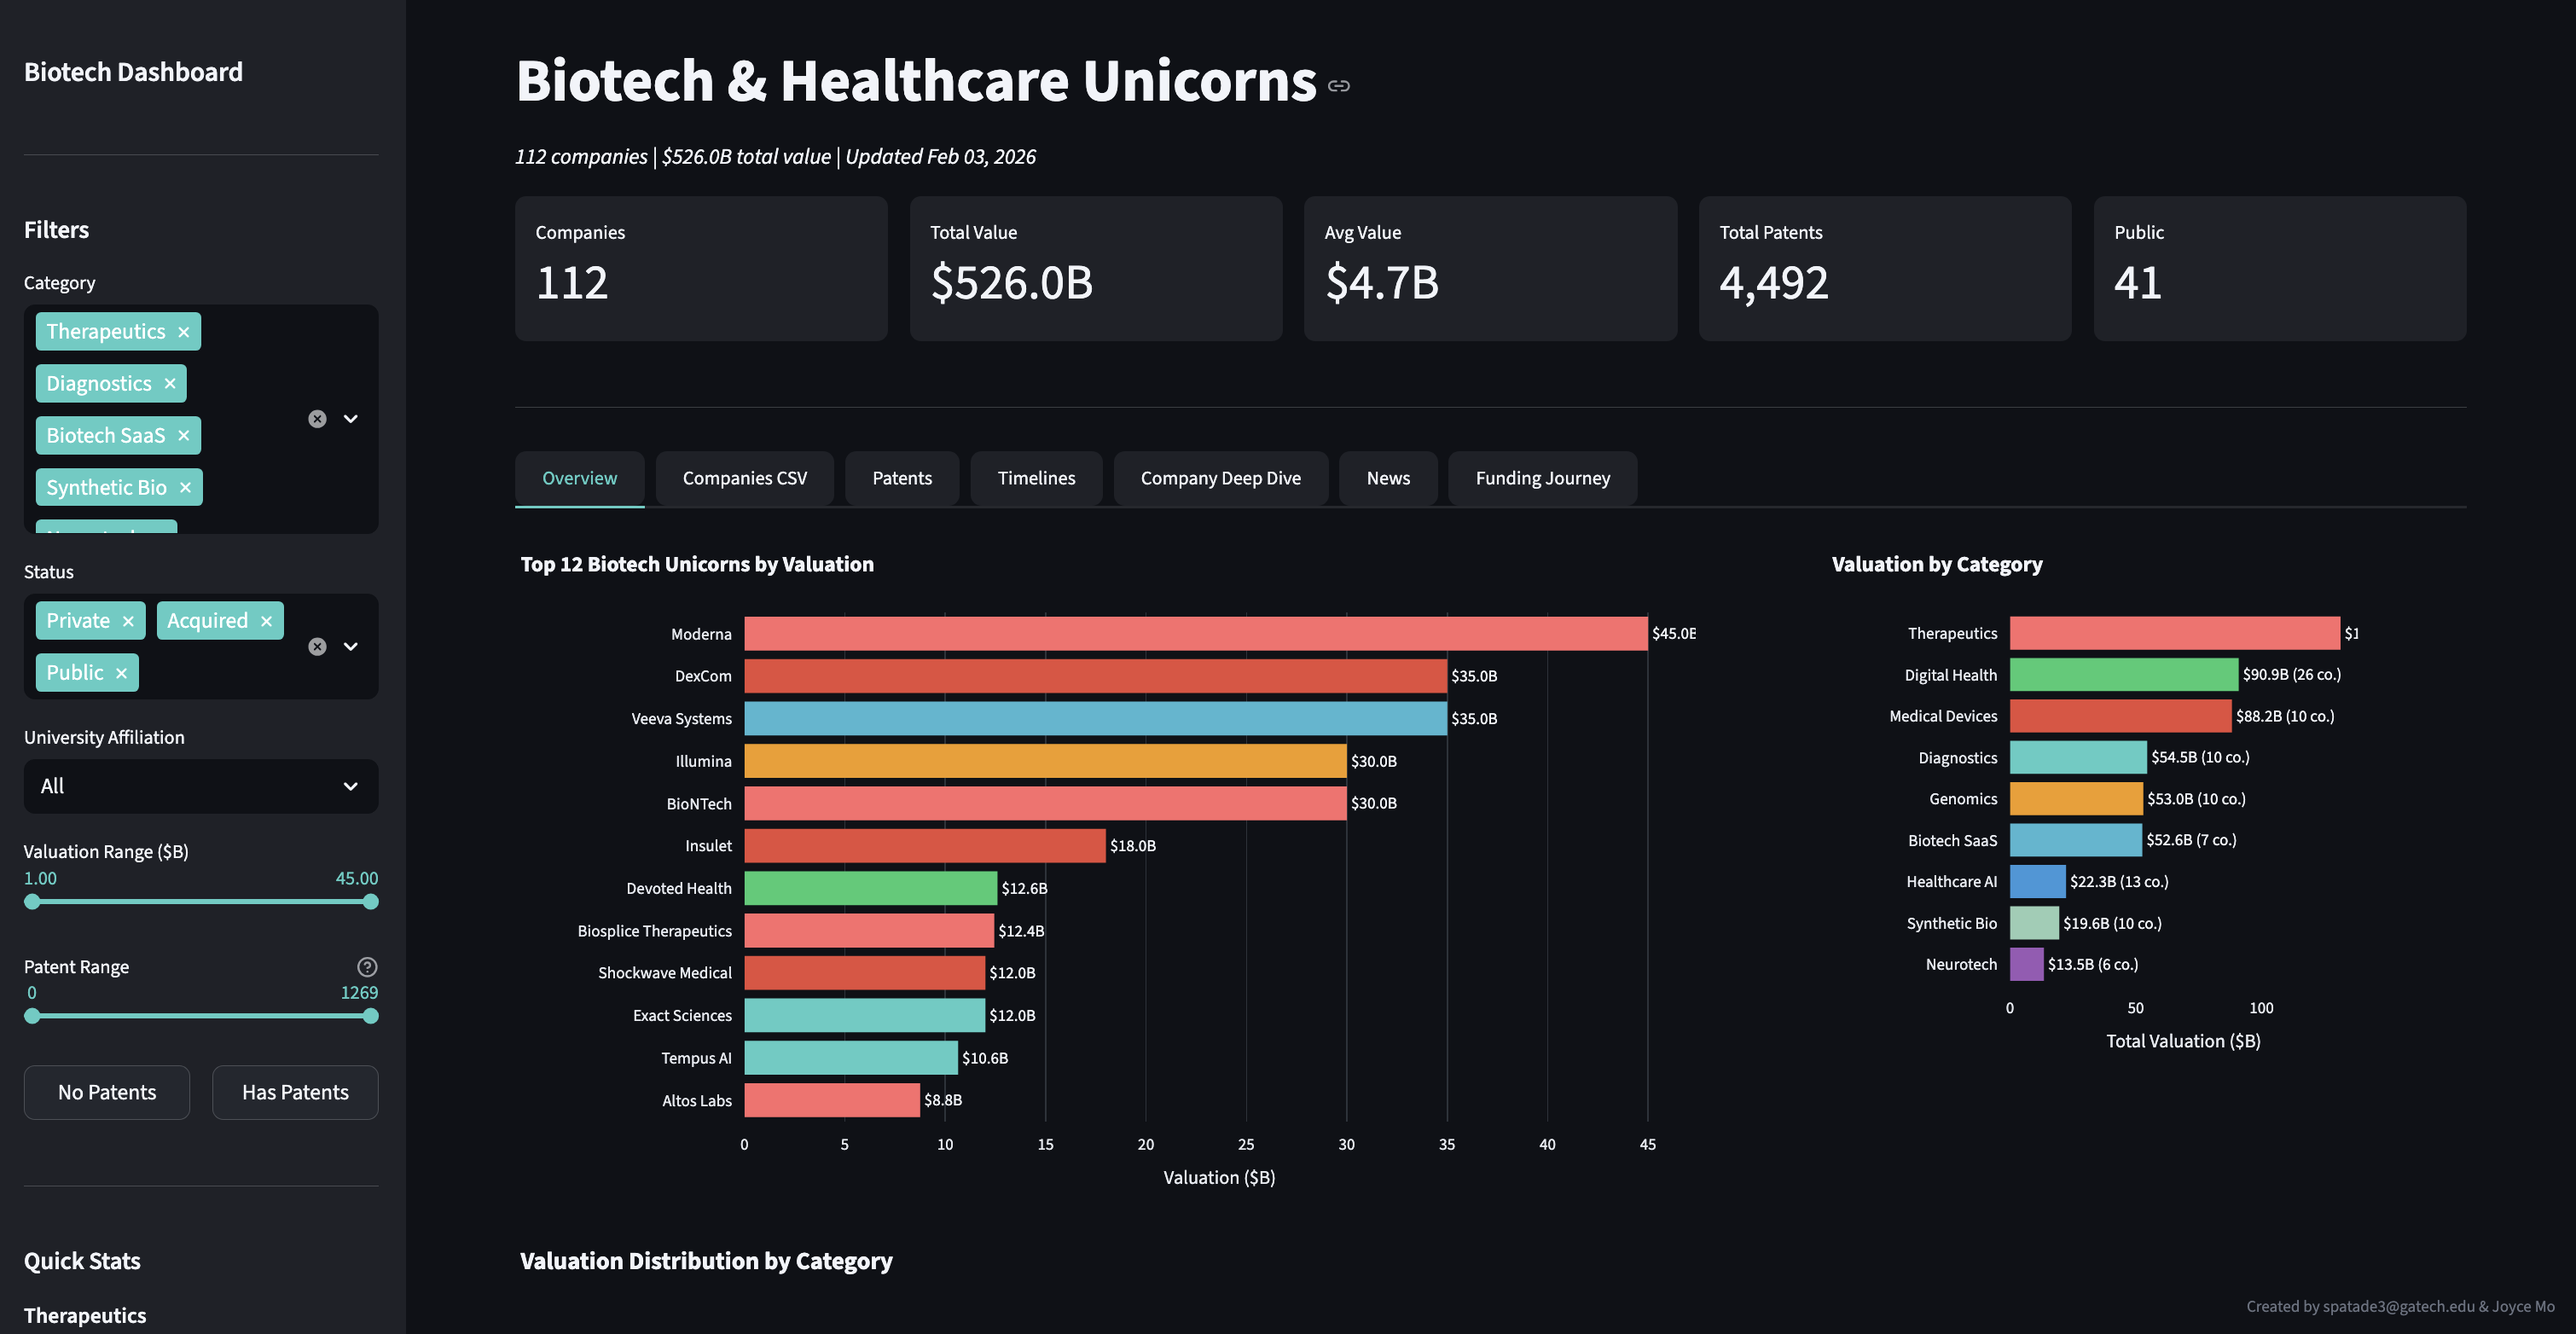
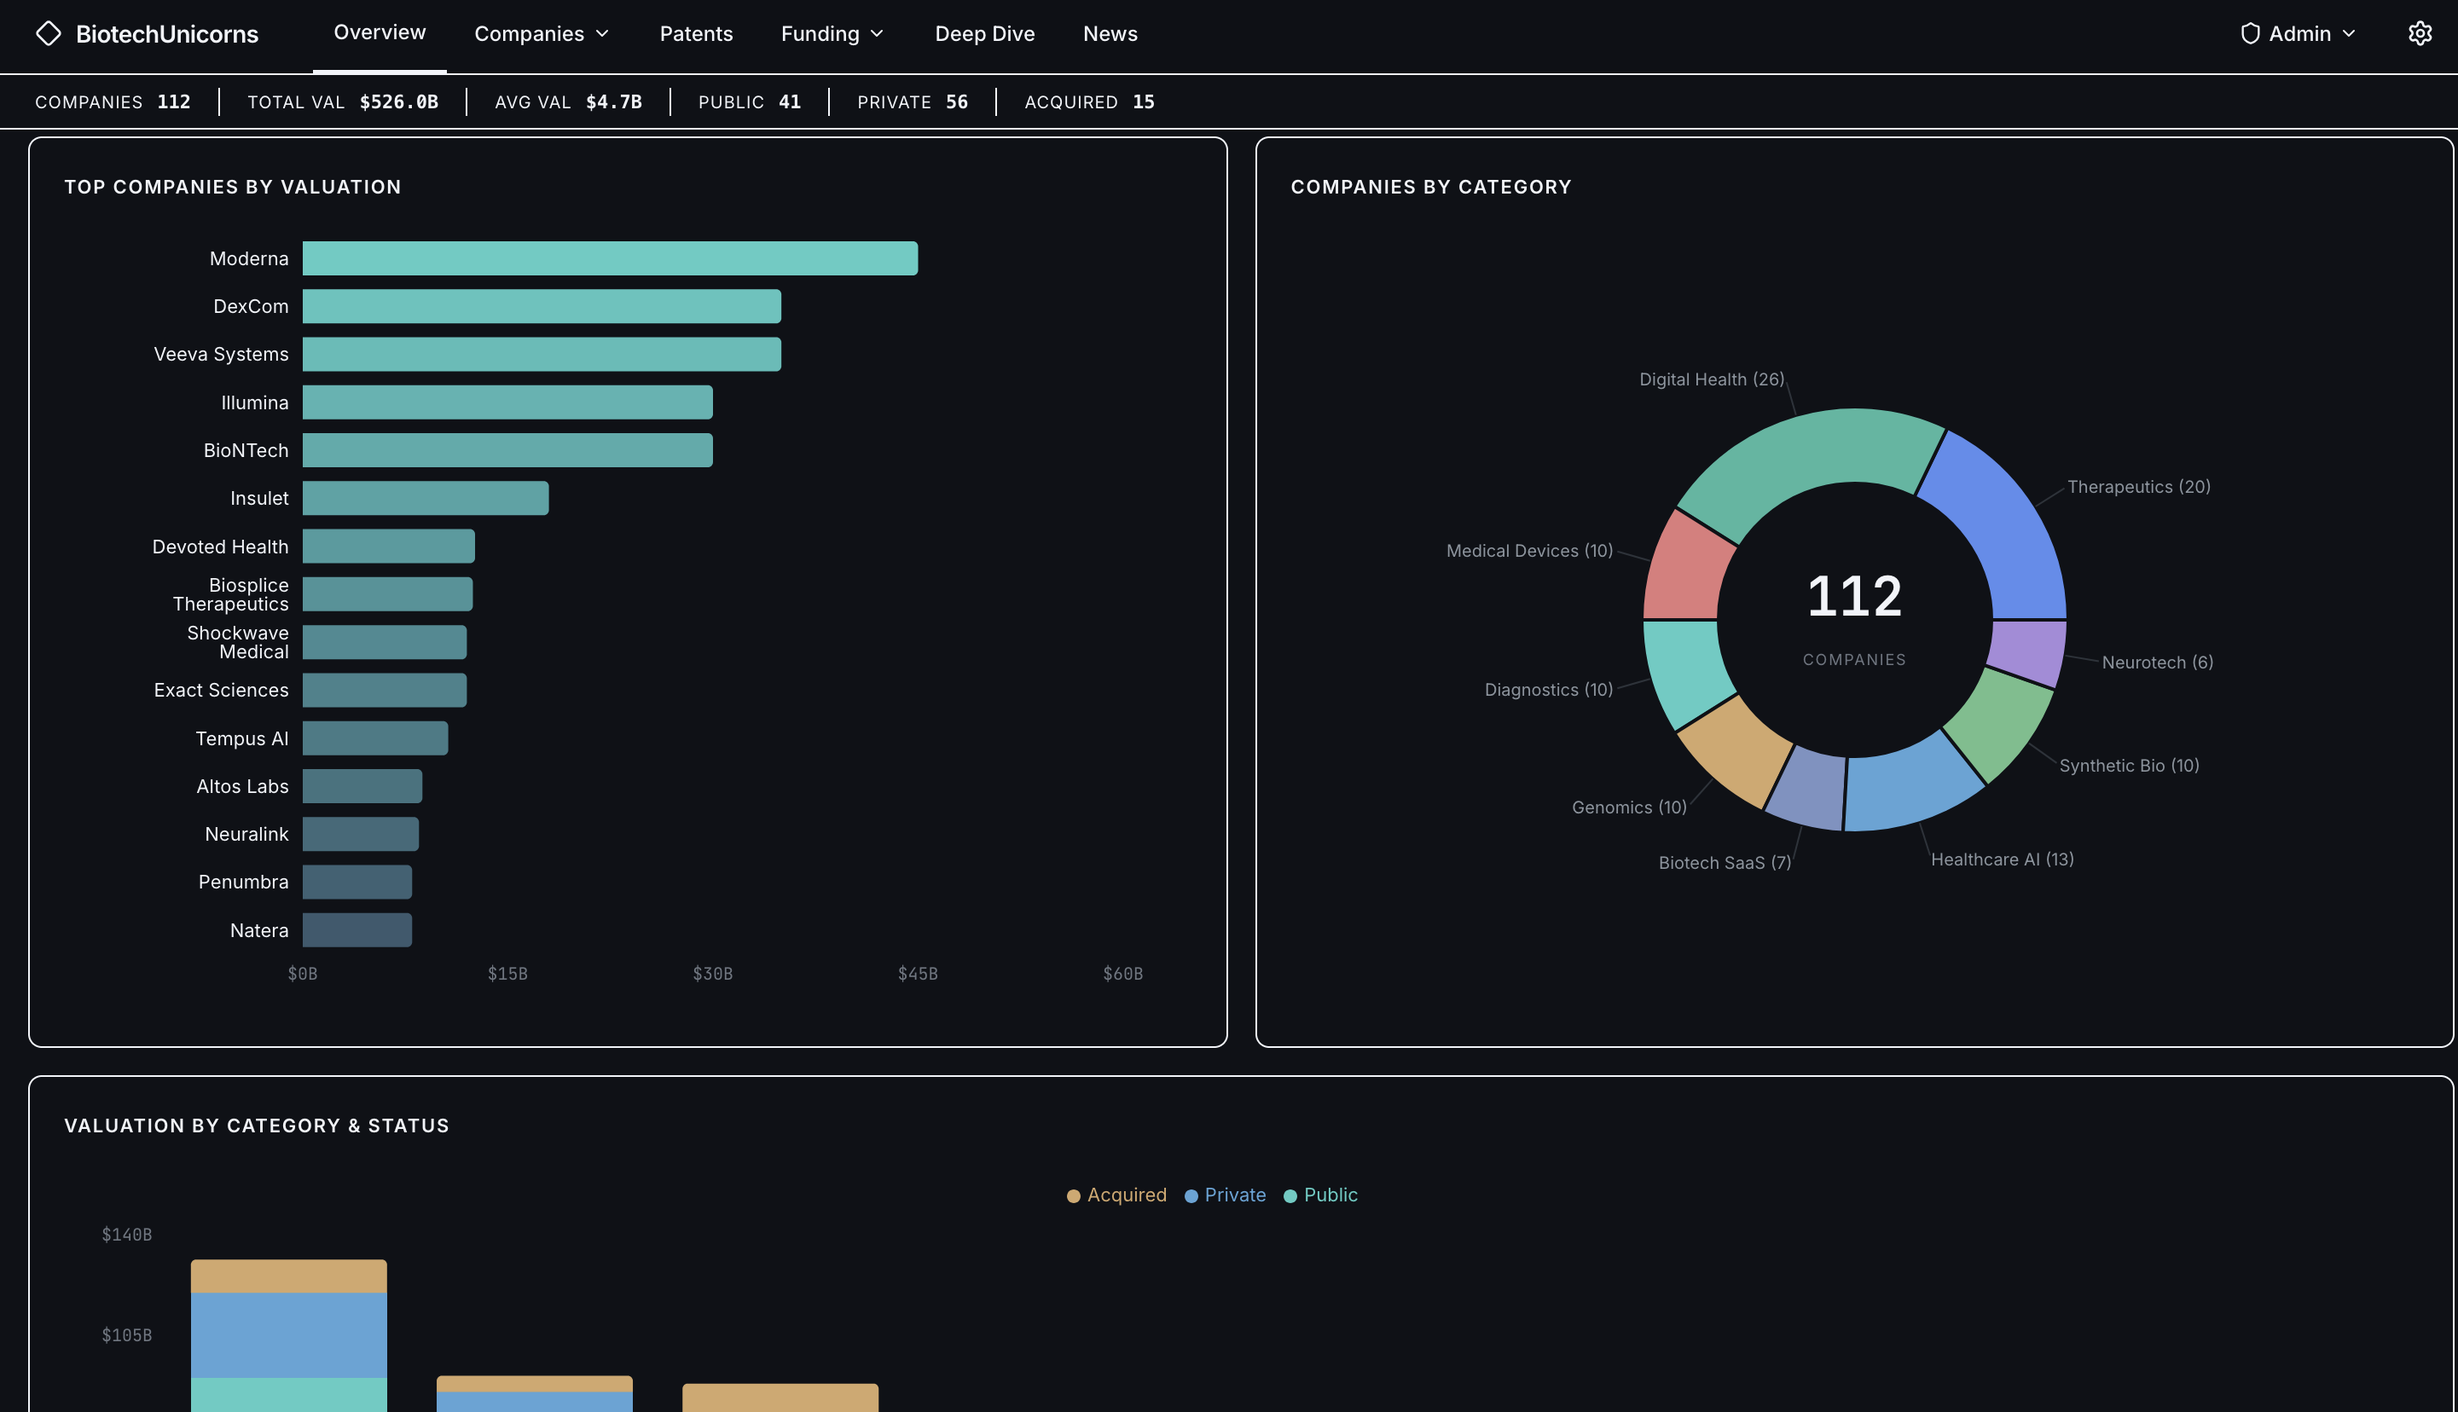
Add NPPG Predictive Analytics and update Biotech Unicorns to v2
- Add NPPG Predictive Analytics as featured project with dashboard screenshot
- Update Biotech Unicorns to Intelligence Platform (v2) for Riceberg Ventures
- Update skills page with Dagster, FastAPI, TypeScript, XGBoost, Google Cloud
- Update tools section to reflect current tech stack

diff --git a/src/app/projects/page.tsx b/src/app/projects/page.tsx
@@ -7,6 +7,14 @@ const basePath = process.env.NODE_ENV === 'production' ? '/portfolio' : '';
 // Featured personal projects with screenshots
 const featuredProjects = [
   {
+    title: 'NPPG Predictive Analytics',
+    description: 'End-to-end data platform for pension plan compliance and risk analytics, managing 14,000+ retirement plans. Features 24 automated Dagster pipelines, 6 ML models for compliance prediction and churn detection, and a real-time executive dashboard with network analysis.',
+    image: `${basePath}/projects/nppg-analytics.png`,
+    tags: ['Python', 'Dagster', 'scikit-learn', 'FastAPI', 'Next.js', 'React', 'SQL Server'],
+    features: ['24 Automated Pipelines', 'ML Compliance Prediction', 'Network Analysis', 'Risk Scoring'],
+    category: 'ai',
+  },
+  {
     title: 'Capitol Trades',
     description: 'Congressional stock trading tracker aggregating STOCK Act disclosures to analyze trading patterns of US lawmakers. Features real-time data scraping, ROI calculations, and party-level comparisons with interactive visualizations.',
     image: `${basePath}/projects/capitol-trades.png`,
@@ -23,12 +31,12 @@ const featuredProjects = [
     category: 'ai',
   },
   {
-    title: 'Biotech & Healthcare Unicorns Dashboard',
-    description: 'Interactive analytics platform tracking 112 biotech unicorn companies worth $526B in total value. Features advanced filtering by category, valuation range, patent portfolio, and company status with deep-dive analysis capabilities.',
+    title: 'Biotech Unicorns Intelligence Platform',
+    description: 'Real-time intelligence platform built for Riceberg Ventures tracking 112 biotech unicorns worth $526B. AI-enriched patent analysis, SEC filing insights, clinical trials, and news sentiment powered by Gemini 2.5 Flash with automated enrichment pipelines on Google Cloud.',
     image: `${basePath}/projects/biotech-v2.png`,
-    tags: ['Python', 'Streamlit', 'Data Visualization', 'BigQuery', 'Pandas'],
-    features: ['Company Deep Dives', 'Patent Analysis', 'Funding Journey Tracking', 'News Aggregation'],
-    category: 'analytics',
+    tags: ['Next.js', 'React', 'Flask', 'BigQuery', 'Gemini AI', 'Google Cloud', 'Recharts'],
+    features: ['AI-Enriched Patent Analysis', 'SEC Filing Insights', 'Clinical Trials Tracking', 'News Sentiment'],
+    category: 'ai',
   },
   {
     title: 'OilSight',

diff --git a/src/app/skills/page.tsx b/src/app/skills/page.tsx
@@ -8,43 +8,45 @@ const skillCategories = [
     skills: [
       { name: 'Python', level: 95 },
       { name: 'SQL', level: 95 },
-      { name: 'R', level: 75 },
-      { name: 'JavaScript', level: 70 },
+      { name: 'TypeScript', level: 80 },
+      { name: 'JavaScript', level: 80 },
     ],
   },
   {
     title: 'Machine Learning',
     skills: [
+      { name: 'Scikit-learn', level: 90 },
       { name: 'TensorFlow', level: 80 },
-      { name: 'Scikit-learn', level: 85 },
-      { name: 'NLP', level: 75 },
+      { name: 'XGBoost', level: 85 },
       { name: 'RAG Systems', level: 80 },
     ],
   },
   {
-    title: 'Visualization',
+    title: 'Data Engineering',
     skills: [
-      { name: 'Power BI', level: 95 },
-      { name: 'Tableau', level: 90 },
-      { name: 'DAX', level: 90 },
-      { name: 'Matplotlib', level: 85 },
+      { name: 'Dagster', level: 90 },
+      { name: 'FastAPI / Flask', level: 85 },
+      { name: 'ETL Pipelines', level: 95 },
+      { name: 'pandas / NumPy', level: 90 },
     ],
   },
   {
-    title: 'Cloud & Data',
+    title: 'Cloud & Databases',
     skills: [
-      { name: 'AWS', level: 80 },
+      { name: 'Google Cloud', level: 85 },
+      { name: 'BigQuery', level: 85 },
       { name: 'SQL Server', level: 90 },
-      { name: 'PostgreSQL', level: 85 },
-      { name: 'BigQuery', level: 75 },
+      { name: 'AWS', level: 80 },
     ],
   },
 ];
 
 const tools = [
-  'Python', 'SQL', 'Power BI', 'Tableau', 'AWS', 'GCP',
-  'TensorFlow', 'pandas', 'NumPy', 'Docker', 'Git',
-  'PostgreSQL', 'MongoDB', 'Jupyter', 'VS Code', 'PyTorch'
+  'Python', 'SQL', 'TypeScript', 'React', 'Next.js',
+  'Dagster', 'FastAPI', 'Flask', 'Scikit-learn', 'XGBoost',
+  'Google Cloud', 'BigQuery', 'AWS', 'SQL Server', 'PostgreSQL',
+  'Power BI', 'Tableau', 'Recharts', 'D3.js',
+  'pandas', 'NumPy', 'Docker', 'Git',
 ];
 
 function SkillBar({ name, level, animate }: { name: string; level: number; animate: boolean }) {

diff --git a/src/app/page.tsx b/src/app/page.tsx
@@ -17,6 +17,18 @@ export default function Home() {
 
         <BentoGrid>
           <ProjectCard
+            title="NPPG Predictive Analytics"
+            category="Data Engineering & ML"
+            description="End-to-end data platform with 24 automated pipelines, 6 ML models, and real-time dashboards for 14K+ pension plans."
+            imageUrl={`${basePath}/projects/nppg-analytics.png`}
+          />
+          <ProjectCard
+            title="Biotech Unicorns Intelligence"
+            category="AI & Full-Stack"
+            description="AI-enriched platform tracking 112 biotech unicorns worth $526B with Gemini-powered patent and SEC analysis."
+            imageUrl={`${basePath}/projects/biotech-v2.png`}
+          />
+          <ProjectCard
             title="OilSight"
             category="AI & Geospatial Analytics"
             description="ML platform predicting oil & gas hotspots using USGS elevation models and terrain feature extraction across 8 US basins."
@@ -33,12 +45,6 @@ export default function Home() {
             category="Full-Stack Development"
             description="Find the perfect meeting spot between two locations with drive times and nearby restaurant recommendations."
             imageUrl={`${basePath}/projects/midpoint.png`}
-          />
-          <ProjectCard
-            title="Biotech Unicorns Dashboard"
-            category="Data Analytics"
-            description="Interactive platform tracking 112 biotech companies worth $526B with patent and funding analysis."
-            imageUrl={`${basePath}/projects/biotech-v2.png`}
           />
           <ProjectCard
             title="Geopolitical Marketing"
